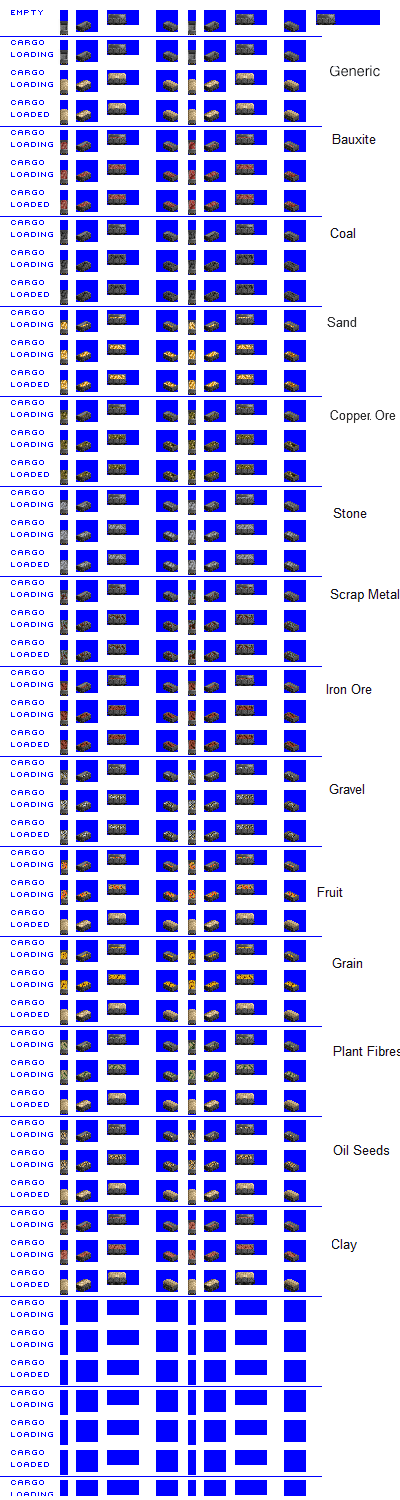
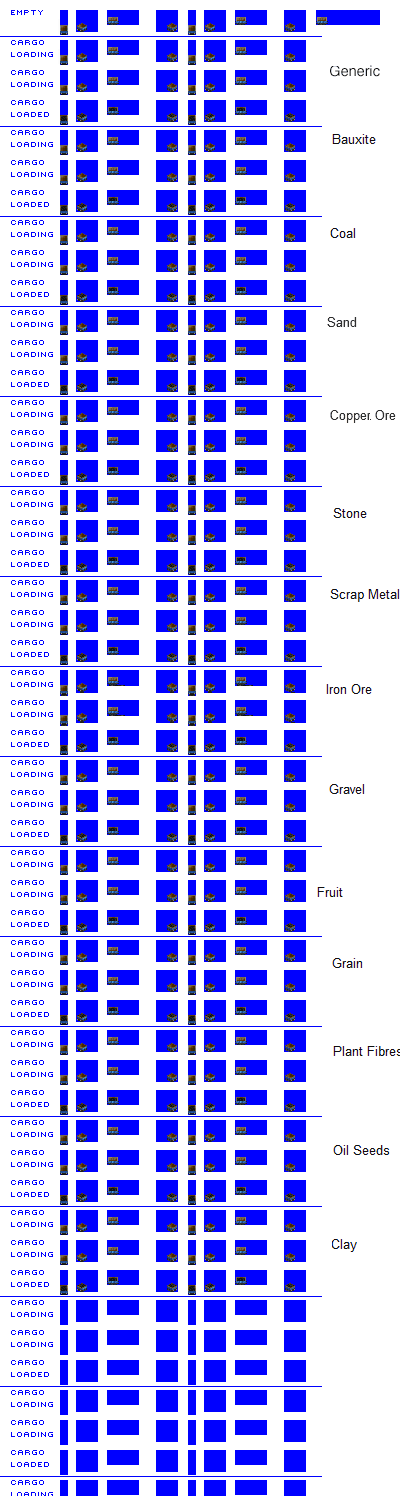
Fix: correct lengths (and graphics) for Planet NG loco and NG open wagon

diff --git a/src/vehicles/open_cars.py b/src/vehicles/open_cars.py
@@ -1,16 +1,16 @@
 import global_constants
 from train import TypeConfig, WagonConsist, Wagon, GraphicsProcessorFactory
 
-cargo_graphics_mappings = {'AORE': [1], 'COAL': [2], 'SAND': [3], 'CORE': [4], 'LIME': [5], 
-                           'SCMT': [6], 'IORE': [7], 'GRVL': [8], 'FRUT': [9], 'FRVG': [9], 
-                           'GRAI': [10], 'WHEA': [10], 'MAIZ': [10], 'FICR': [11], 
+cargo_graphics_mappings = {'AORE': [1], 'COAL': [2], 'SAND': [3], 'CORE': [4], 'LIME': [5],
+                           'SCMT': [6], 'IORE': [7], 'GRVL': [8], 'FRUT': [9], 'FRVG': [9],
+                           'GRAI': [10], 'WHEA': [10], 'MAIZ': [10], 'FICR': [11],
                            'SGCN': [11], 'OLSD': [12], 'CLAY': [13]}
 
-options = {'template': 'open_car_brit_gen_1_template.png', 
+options = {'template': 'open_car_brit_gen_1_template.png',
            'recolour_map': {170: 186, 171: 187, 172: 188, 173: 189}}
 graphics_processor_1 = GraphicsProcessorFactory('simple_recolour_pipeline', options)
-                                               
-options = {'template': 'open_car_brit_gen_1_template.png', 
+
+options = {'template': 'open_car_brit_gen_1_template.png',
            'recolour_map': {170: 206, 171: 207, 172: 208, 173: 209}}
 graphics_processor_2 = GraphicsProcessorFactory('simple_recolour_pipeline', options)
 
@@ -43,7 +43,7 @@ consist.add_unit(Wagon(type_config = type_config,
                         capacity_freight = 20,
                         weight = 7,
                         vehicle_length = 5,
-                        loading_speed = 20))              
+                        loading_speed = 20))
 
 consist.add_model_variant(intro_date=0,
                        end_date=global_constants.max_game_date,
@@ -54,7 +54,7 @@ consist.add_model_variant(intro_date=0,
                        end_date=global_constants.max_game_date,
                        spritesheet_suffix=1,
                        graphics_processor=graphics_processor_2)
-                       
+
 
 consist = WagonConsist(type_config = type_config,
                     title = 'Open [Car]',
@@ -72,7 +72,7 @@ consist.add_unit(Wagon(type_config = type_config,
                         capacity_freight = 40,
                         weight = 15,
                         vehicle_length = 8,
-                        loading_speed = 20))              
+                        loading_speed = 20))
 
 consist.add_model_variant(intro_date=0,
                        end_date=global_constants.max_game_date,
@@ -108,8 +108,8 @@ consist.add_unit(Wagon(type_config = type_config,
                         consist = consist,
                         capacity_freight = 12,
                         weight = 3,
-                        vehicle_length = 7,
-                        loading_speed = 20))              
+                        vehicle_length = 3,
+                        loading_speed = 20))
 
 consist.add_model_variant(intro_date=0,
                        end_date=global_constants.max_game_date,

diff --git a/src/vehicles/planet.py b/src/vehicles/planet.py
@@ -16,11 +16,11 @@ consist = EngineConsist(id = 'planet',
               intro_date = 1950,
               graphics_status = '',
               use_legacy_spritesheet = True)
-              
+
 consist.add_unit(DieselLoco(consist = consist,
                         weight = 40,
-                        vehicle_length = 7,
-                        spriterow_num = 0))              
+                        vehicle_length = 4,
+                        spriterow_num = 0))
 
 consist.add_model_variant(intro_date=0,
                        end_date=global_constants.max_game_date,
